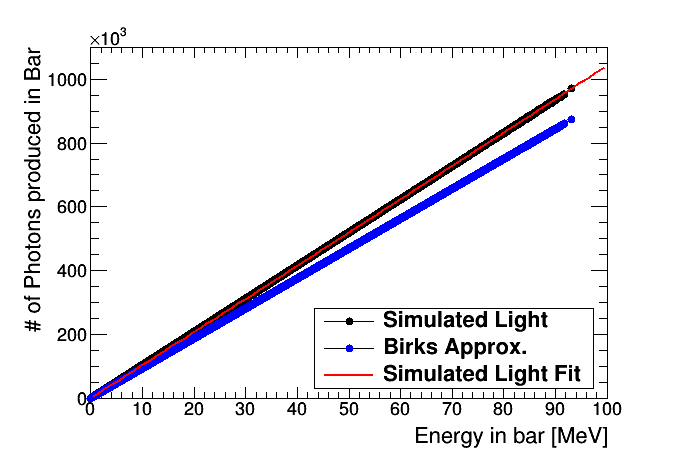
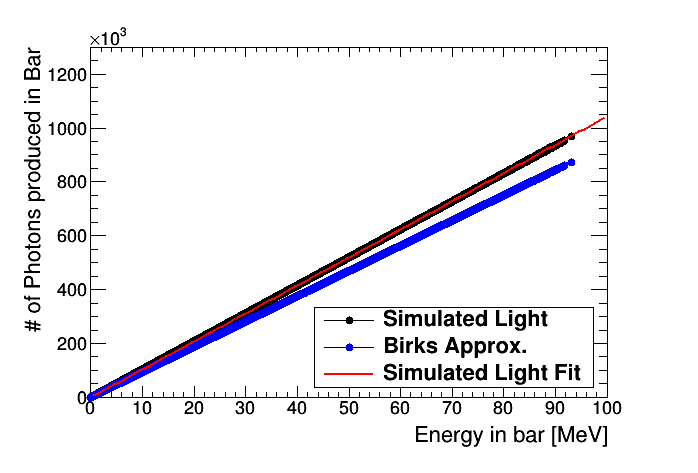
changed graph of light for positrons and electrons and explained light output of square approximation, next need to explain visiable energy in simulation

diff --git a/main.tex b/main.tex
@@ -1025,7 +1025,7 @@ The approximations that the Birks law predicts for $p$,$\overline{p}$,$\pi^+$,$\
 \label{proton_aproton_light}
 \end{figure}
 
-However the light yield for electrons and positrons seen in figure \ref{electron_positron_light} varies more significantly. A variation of $\sim$ 15\,\% is seen in the electrons, figure \ref{electron_light}, and a variation and a variation of $\sim$ 20\,\% is seen in positrons, figure \ref{positron_light}. In figure \ref{electron_positron_light}, the simulated light fit, which is a square fit to the data in the form $L = aE^2 + bE+ c$
+However the light yield for electrons and positrons seen in figure \ref{electron_positron_light} varies more significantly. A variation of $\sim$ 15\,\% is seen in the electrons, figure \ref{electron_light}, and a variation and a variation of $\sim$ 20\,\% is seen in positrons, figure \ref{positron_light} at maximum energy values. In figure \ref{electron_positron_light}, the simulated light fit, which is a square fit to the data in the form $L = aE^2 + bE+ c$ fits the data far closer. Figure \ref{square_electron_positron_light} shows this approximation inputted instead, there is a slight variation between the simulated light fit and the square approx. seen in figures \ref{square_electron_light} and \ref{square_positron_light}. This is because the simulated light fit is fitted to the whole light distribution whereas the light of the square approximation is produced per Geant4 step. Despite this, the square approximation of light for electrons ($L = 0.9347E^2 + 10340E - 0.1000$) had a variation of 0.7\,\% at maximum energy and the square approximation of the light for the positrons ($L = 0.9716E^2 + 10350E -0.1000$) had a variation of 0.3\,\% at maximum energy. 
 
 \begin{figure}[H]
 \centering
@@ -1066,6 +1066,8 @@ However the light yield for electrons and positrons seen in figure \ref{electron
 \caption{Electron and positron light output from simulation compared to a Geant4 step square approximation}
 \label{square_electron_positron_light}
 \end{figure}
+
+The conversion for light into energy for electrons, $L = 0.9347E^2 + 10340E - 0.1000$, is what is used for the conversion of light into energy. 
 
 \section{Signal and noise convolution}
 \subsection{Reevaluating the Trigger Data}
